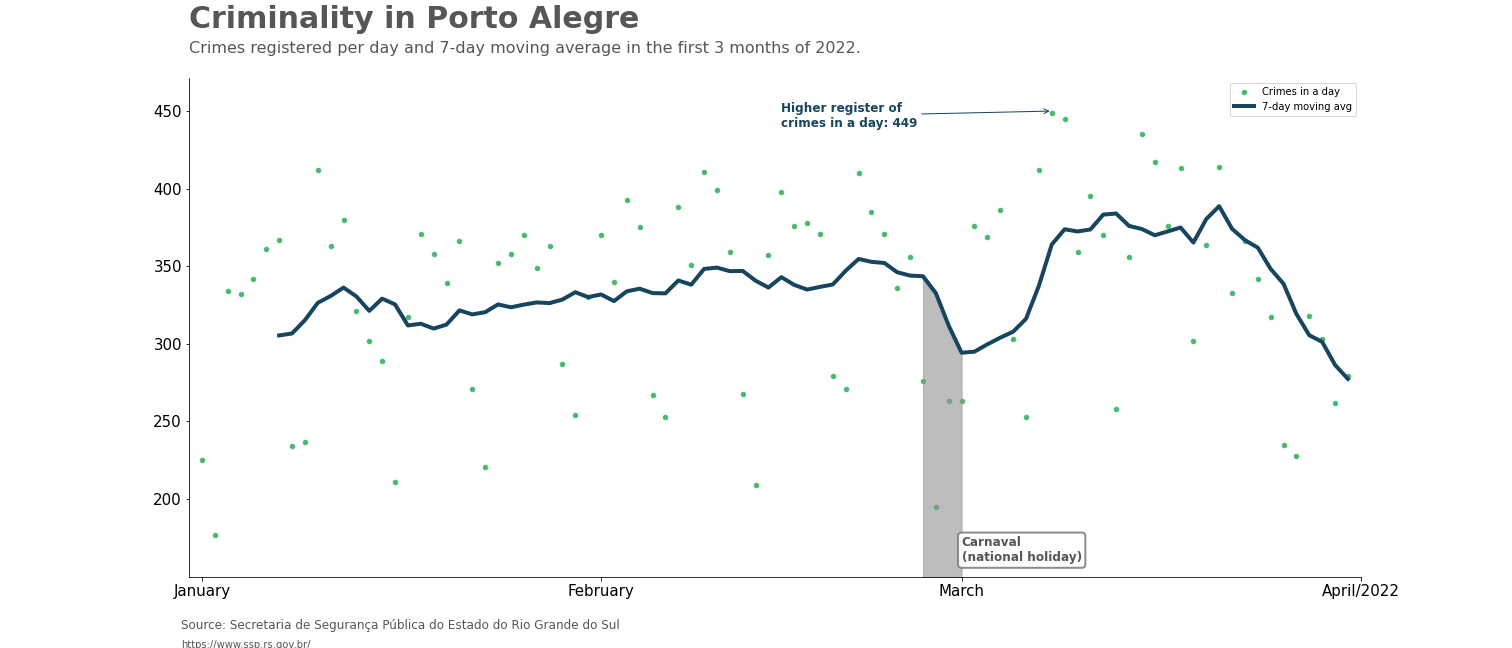
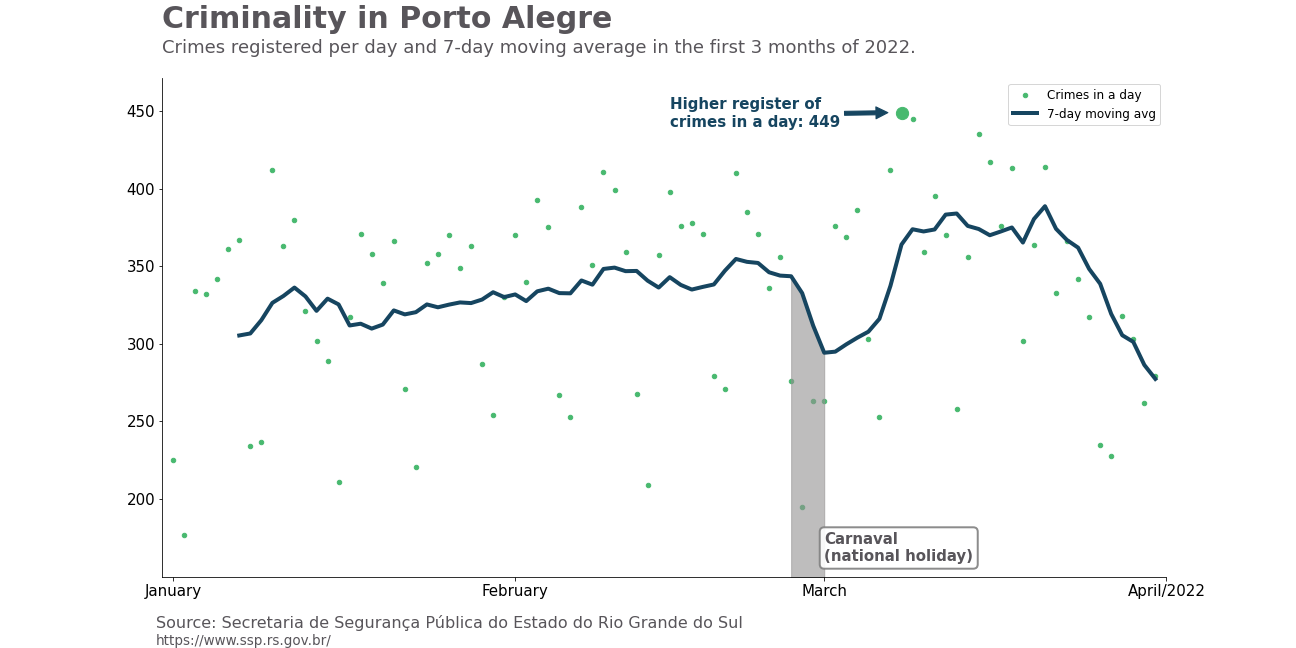
🔧 Update plot code and png

diff --git a/code/criminality_plot.py b/code/criminality_plot.py
@@ -9,7 +9,7 @@ df = extract(DATA_URL)
 df_poa = transform(df)
 
 # CREATING FIGURE AND AXES
-fig, ax = plt.subplots(nrows=1, ncols=1, figsize=(21,9), dpi=72)
+fig, ax = plt.subplots(nrows=1, ncols=1, figsize=(18,9), dpi=72)
 fig.patch.set_facecolor('w')
 
 # PLOT INTO AX
@@ -27,6 +27,14 @@ df_poa.plot(
     y='mv_avg_7d',
     color=COLORS[1],
     linewidth=4
+)
+df_poa[df_poa['count']==df_poa['count'].max()].plot(
+    kind='scatter',
+    x='date',
+    y='count',
+    ax=ax,
+    color=COLORS[0],
+    s=150
 )
 
 # FILL BETWEEN
@@ -53,7 +61,10 @@ ax.set_ylim(150, top=None)
 ax.set_xlim('2021-12-31', '2022-03-01')
 
 # CUSTOMIZING LEGENDS
-ax.legend(['Crimes in a day', '7-day moving avg'])
+ax.legend(
+    ['Crimes in a day', '7-day moving avg'],
+    fontsize=12
+)
 
 # CUSTOMIZING TICKS
 ax.minorticks_off()
@@ -83,31 +94,30 @@ ax.text(
     0, 1.05,
     'Crimes registered per day and 7-day moving average in the first 3 months of 2022.',
     transform=ax.transAxes,
-    fontsize=16,
+    fontsize=18,
     color='#58555A'
 )
 
 # CREATING ANNOTATIONS
 ax.annotate(
     'Higher register of\ncrimes in a day: {:.0f}'.format(df_poa['count'].max()),
-    xy=('2022-03-08', 450),
+    xy=('2022-03-07', 449),
     xycoords='data',
     xytext=('2022-02-15', 440),
     textcoords='data',
     weight='bold',
     color=COLORS[1],
-    fontsize=12,
+    fontsize=15,
     arrowprops=dict(
-        arrowstyle='->',
-        connectionstyle="arc3",
-        color=COLORS[1]
+        color=COLORS[1],
+        shrink=0.05
     )
 )
 
 ax.text(
     x='2022-03-01', y=160,
     s='Carnaval\n(national holiday)',
-    fontsize=12,
+    fontsize=15,
     color='#58555A',
     fontweight='bold',
     bbox=dict(
@@ -121,19 +131,19 @@ ax.text(
 
 # ADD CAPTION
 fig.text(
-    0.12, 0.03,
+    0.12, 0.031,
     "Source: Secretaria de Segurança Pública do Estado do Rio Grande do Sul",
     color='#58555A',
-    fontsize=12,
+    fontsize=16,
     fontfamily="Econ Sans Cnd"
 )
 
 # ADD SUPCAPTION
 fig.text(
-    0.12, 0.0,
+    0.12, 0.005,
     "https://www.ssp.rs.gov.br/",
     color='#58555A',
-    fontsize=10,
+    fontsize=13.5,
     fontfamily="Econ Sans Cnd"
 )
 
